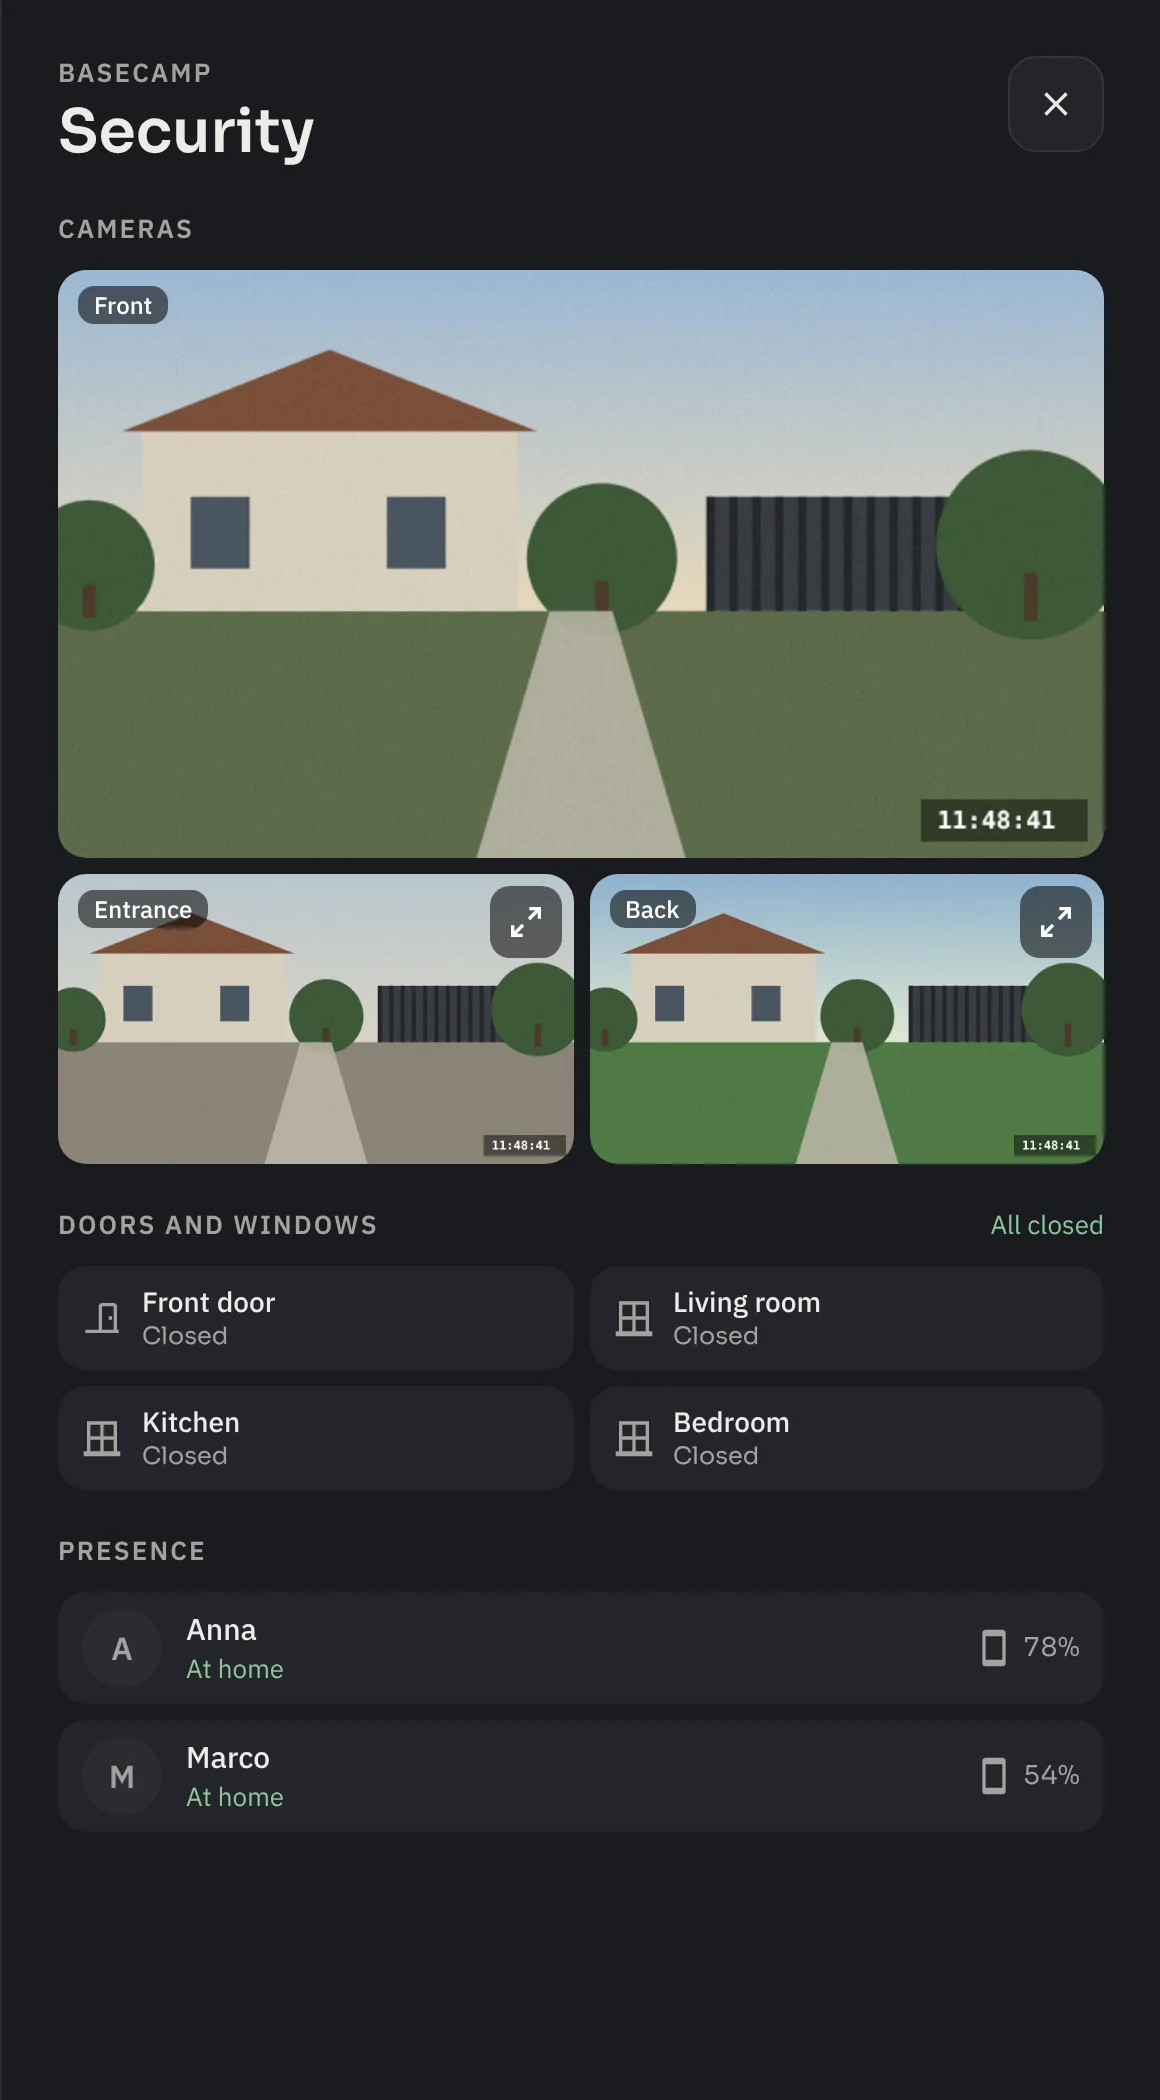
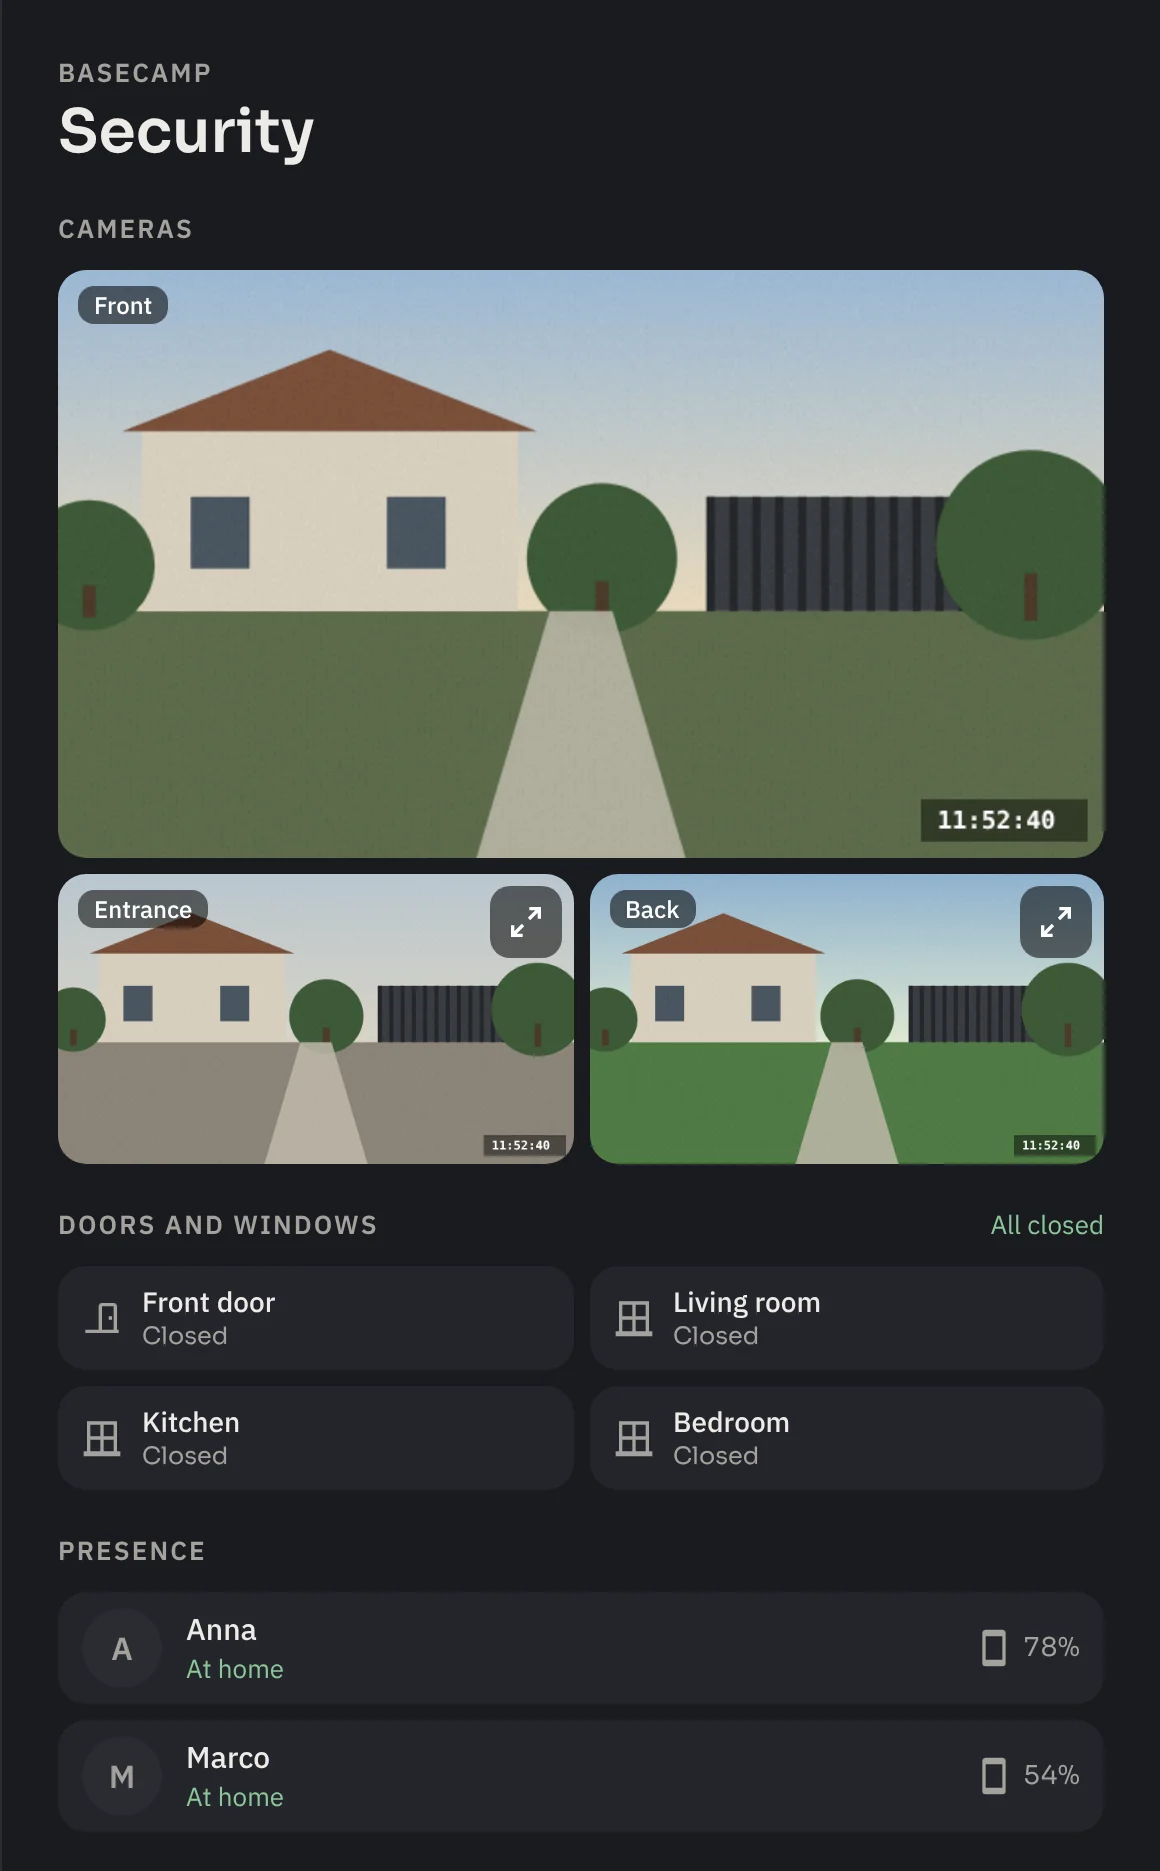
And more: clean-cut cards without close buttons, evened-out rows; security section titled 'Security & access'
Claude-Session: https://claude.ai/code/session_012yGYXAWYEvhns3s18BdUVn

diff --git a/index.html b/index.html
@@ -55,7 +55,7 @@
         <h2 data-i18n="rooms.title"></h2>
         <p class="lead" data-i18n="rooms.lead"></p>
       </div>
-      <div class="shot panel rv"><img loading="lazy" src="assets/screens/en/zone.webp" data-img="zone" width="1160" height="1600" data-i18n-alt="alt.zone" alt="" ></div>
+      <div class="shot panel rv"><img loading="lazy" src="assets/screens/en/zone.webp" data-img="zone" width="1160" height="1440" data-i18n-alt="alt.zone" alt="" ></div>
     </div>
   </section>
 
@@ -77,7 +77,7 @@
       <h2 class="rv" data-i18n="security.title"></h2>
       <p class="lead rv" data-i18n="security.lead"></p>
       <div class="duo duo-wide">
-        <figure class="rv"><div class="shot panel cut"><img loading="lazy" src="assets/screens/en/security.webp" data-img="security" width="1160" height="2100" data-i18n-alt="alt.security" alt="" ></div><figcaption data-i18n="security.cap1"></figcaption></figure>
+        <figure class="rv"><div class="shot panel"><img loading="lazy" src="assets/screens/en/security.webp" data-img="security" width="1160" height="1871" data-i18n-alt="alt.security" alt="" ></div><figcaption data-i18n="security.cap1"></figcaption></figure>
         <figure class="rv"><div class="shot window"><img loading="lazy" src="assets/screens/en/intercom.webp" data-img="intercom" width="1600" height="1076" data-i18n-alt="alt.intercom" alt="" ></div><figcaption data-i18n="security.cap2"></figcaption></figure>
       </div>
     </div>
@@ -90,27 +90,11 @@
       <div class="bento">
       <article class="bento-card rv">
         <div class="bento-copy">
-          <p class="eyebrow" data-i18n="weather.eyebrow"></p>
-          <h3 data-i18n="weather.title"></h3>
-          <p data-i18n="weather.lead"></p>
-        </div>
-        <div class="bento-shot"><img loading="lazy" src="assets/screens/en/weather.webp" data-img="weather" width="1160" height="1600" data-i18n-alt="alt.weather" alt="" ></div>
-      </article>
-      <article class="bento-card rv">
-        <div class="bento-copy">
-          <p class="eyebrow" data-i18n="vmc.eyebrow"></p>
-          <h3 data-i18n="vmc.title"></h3>
-          <p data-i18n="vmc.lead"></p>
-        </div>
-        <div class="bento-shot"><img loading="lazy" src="assets/screens/en/vmc.webp" data-img="vmc" width="1040" height="2000" data-i18n-alt="alt.vmc" alt="" ></div>
-      </article>
-      <article class="bento-card rv">
-        <div class="bento-copy">
           <p class="eyebrow" data-i18n="robot.eyebrow"></p>
           <h3 data-i18n="robot.title"></h3>
           <p data-i18n="robot.lead"></p>
         </div>
-        <div class="bento-shot"><img loading="lazy" src="assets/screens/en/robot.webp" data-img="robot" width="1160" height="2300" data-i18n-alt="alt.robot" alt="" ></div>
+        <div class="bento-shot"><img loading="lazy" src="assets/screens/en/robot.webp" data-img="robot" width="1160" height="1230" data-i18n-alt="alt.robot" alt="" ></div>
       </article>
       <article class="bento-card rv">
         <div class="bento-copy">
@@ -118,15 +102,15 @@
           <h3 data-i18n="music.title"></h3>
           <p data-i18n="music.lead"></p>
         </div>
-        <div class="bento-shot"><img loading="lazy" src="assets/screens/en/music.webp" data-img="music" width="1160" height="1900" data-i18n-alt="alt.music" alt="" ></div>
+        <div class="bento-shot"><img loading="lazy" src="assets/screens/en/music.webp" data-img="music" width="1160" height="1140" data-i18n-alt="alt.music" alt="" ></div>
       </article>
       <article class="bento-card rv">
         <div class="bento-copy">
-          <p class="eyebrow" data-i18n="appl.eyebrow"></p>
-          <h3 data-i18n="appl.title"></h3>
-          <p data-i18n="appl.lead"></p>
+          <p class="eyebrow" data-i18n="weather.eyebrow"></p>
+          <h3 data-i18n="weather.title"></h3>
+          <p data-i18n="weather.lead"></p>
         </div>
-        <div class="bento-shot"><img loading="lazy" src="assets/screens/en/appl.webp" data-img="appl" width="1160" height="1500" data-i18n-alt="alt.appl" alt="" ></div>
+        <div class="bento-shot"><img loading="lazy" src="assets/screens/en/weather.webp" data-img="weather" width="1160" height="1060" data-i18n-alt="alt.weather" alt="" ></div>
       </article>
       <article class="bento-card rv">
         <div class="bento-copy">
@@ -135,6 +119,22 @@
           <p data-i18n="covers.lead"></p>
         </div>
         <div class="bento-shot"><img loading="lazy" src="assets/screens/en/covers.webp" data-img="covers" width="1160" height="960" data-i18n-alt="alt.covers" alt="" ></div>
+      </article>
+      <article class="bento-card rv">
+        <div class="bento-copy">
+          <p class="eyebrow" data-i18n="vmc.eyebrow"></p>
+          <h3 data-i18n="vmc.title"></h3>
+          <p data-i18n="vmc.lead"></p>
+        </div>
+        <div class="bento-shot"><img loading="lazy" src="assets/screens/en/vmc.webp" data-img="vmc" width="1040" height="1420" data-i18n-alt="alt.vmc" alt="" ></div>
+      </article>
+      <article class="bento-card rv">
+        <div class="bento-copy">
+          <p class="eyebrow" data-i18n="appl.eyebrow"></p>
+          <h3 data-i18n="appl.title"></h3>
+          <p data-i18n="appl.lead"></p>
+        </div>
+        <div class="bento-shot"><img loading="lazy" src="assets/screens/en/appl.webp" data-img="appl" width="1160" height="1440" data-i18n-alt="alt.appl" alt="" ></div>
       </article>
       </div>
     </div>

diff --git a/assets/app.js b/assets/app.js
@@ -28,7 +28,7 @@ const I18N = {
     "weather.eyebrow": "Weather",
     "weather.title": "Weather from your own backyard.",
     "weather.lead": "Readings from your station, the last 24 hours and the next 24 on a single line. Wind, rain, humidity and pressure, beautifully quiet.",
-    "security.eyebrow": "Security",
+    "security.eyebrow": "Security &amp; access",
     "security.title": "Safe by design.",
     "security.lead": "Live cameras, doors and windows, the alarm and who’s home. Risky actions need a deliberate press and critical ones a code, so a stray touch never opens the gate.",
     "covers.eyebrow": "Shutters &amp; awnings",
@@ -83,7 +83,7 @@ const I18N = {
     "weather.eyebrow": "Meteo",
     "weather.title": "Il meteo del tuo giardino.",
     "weather.lead": "Le misure della tua stazione, le ultime 24 ore e le prossime 24 su un’unica linea. Vento, pioggia, umidità e pressione, in silenzio e con eleganza.",
-    "security.eyebrow": "Sicurezza",
+    "security.eyebrow": "Sicurezza e accessi",
     "security.title": "Sicura, senza pensieri.",
     "security.lead": "Telecamere dal vivo, porte e finestre, allarme e chi è in casa. Le azioni rischiose richiedono una pressione voluta e quelle critiche un codice: un tocco involontario non apre mai il cancello.",
     "covers.eyebrow": "Tapparelle e tende",

diff --git a/assets/style.css b/assets/style.css
@@ -112,7 +112,7 @@ footer a{color:var(--muted)}
 .bento-copy h3{font:600 clamp(24px,3vw,32px)/1.12 var(--display);letter-spacing:-.02em;margin:0 0 12px}
 .bento-copy p:not(.eyebrow){margin:0;color:var(--muted);font-size:16px;line-height:1.5}
 .bento-copy .eyebrow{margin-bottom:12px}
-.bento-shot{margin:24px 32px 0;height:340px;overflow:hidden;border-radius:20px 20px 0 0;border:1px solid rgba(255,255,255,.08);border-bottom:0;-webkit-mask-image:linear-gradient(#000 78%,transparent);mask-image:linear-gradient(#000 78%,transparent)}
-.bento-shot img{width:100%;object-fit:cover;object-position:top}
-.bento-card{padding-bottom:0}
-@media(max-width:760px){.bento{grid-template-columns:1fr}.bento-copy{padding:26px 24px 4px}.bento-shot{margin:20px 24px 0;height:300px}}
+.bento-shot{margin:24px 32px 32px;overflow:hidden;border-radius:22px;border:1px solid rgba(255,255,255,.08)}
+.bento-shot img{width:100%}
+
+@media(max-width:760px){.bento{grid-template-columns:1fr}.bento-copy{padding:26px 24px 4px}.bento-shot{margin:20px 24px 24px}}
